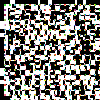
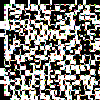
Updated canada.pymy1.png .

diff --git a/canada.py b/canada.py
@@ -29,7 +29,7 @@ img = Image.fromarray(outp, 'RGB')
 img.save('my.png')
 moverPieza(outp,18,1,0,0)
 moverPieza(outp,0,16,0,4)
-moverPieza(outp,1,4,0,6)
+moverPieza(outp,1,4,0,10)
 moverPieza(outp,1,9,0,9)
 moverPieza(outp,2,8,0,7)
 moverPieza(outp,3,0,0,14)
@@ -45,7 +45,7 @@ moverPieza(outp,15,5,0,12)
 moverPieza(outp,16,5,0,2)
 moverPieza(outp,17,4,0,15)
 moverPieza(outp,17,12,0,18)
-moverPieza(outp,18,10,0,10)
+moverPieza(outp,18,10,0,6)
 moverPieza(outp,19,17,0,19)
 moverPieza(outp,4,14,19,19)
 moverPieza(outp,8,5,18,19)
